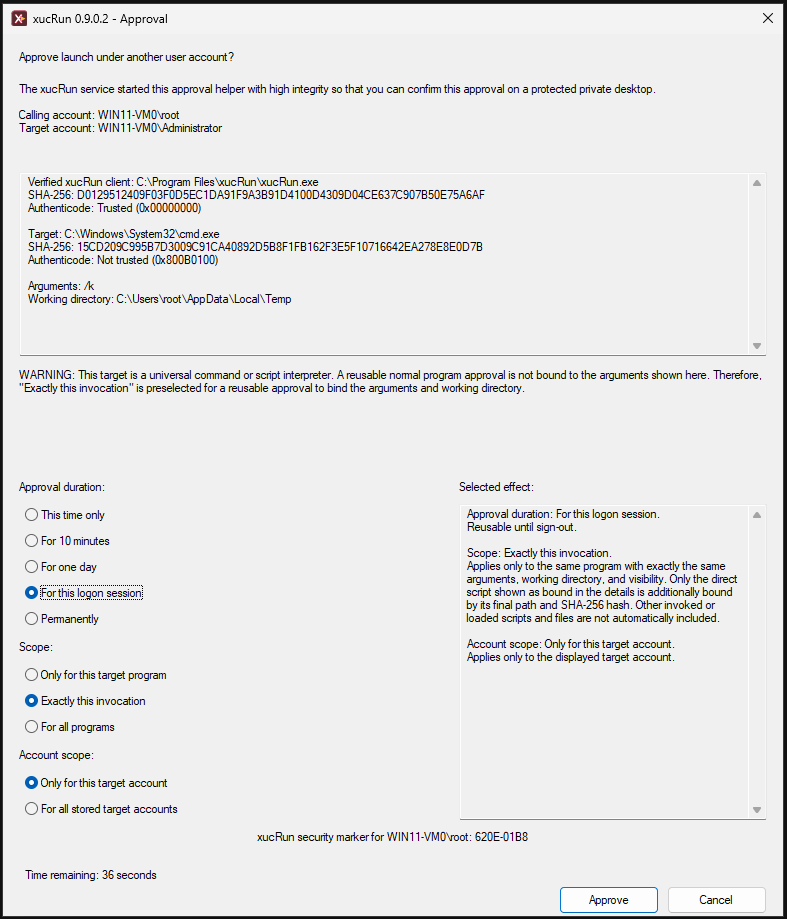
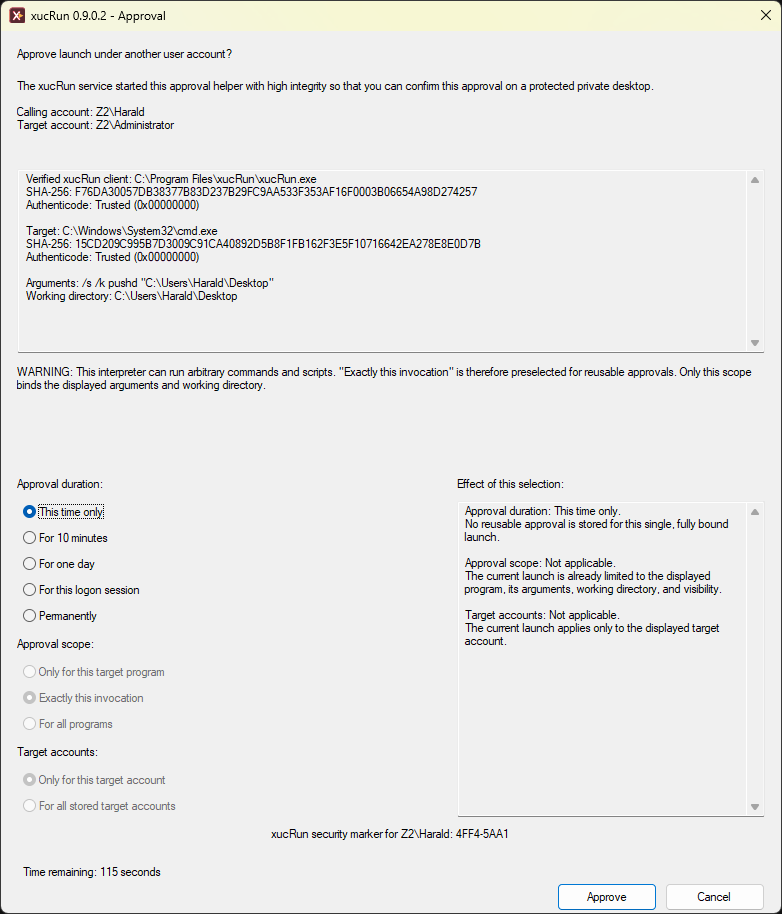
Harden reusable PowerShell approvals

Changed region(s): [[0.0, 0.0, 1.0, 1.0], [0.5831, 0.5208, 0.9514, 0.7352], [0.3376, 0.8884, 0.9514, 0.919]]

diff --git a/xucRunApproval/main.cpp b/xucRunApproval/main.cpp
@@ -741,11 +741,11 @@ namespace
 			if (context && !context->exactInvocationReusableAllowed)
 			{
 				explanation += Text(
-					L"\r\n\r\nDas direkte Skript konnte nicht sicher an Pfad und Inhalt gebunden "
-						L"werden. Eine wiederverwendbare Freigabe für genau diesen Aufruf ist "
+					L"\r\n\r\nDer ausgeführte Inhalt konnte nicht sicher an Pfad und Inhalt "
+						L"gebunden werden. Eine wiederverwendbare Freigabe für genau diesen Aufruf ist "
 						L"deshalb nicht möglich. Sie können den Start einmalig freigeben oder "
 						L"bewusst eine weiterreichende Interpreterfreigabe wählen.",
-					L"\r\n\r\nThe direct script could not be bound safely to its path and "
+					L"\r\n\r\nThe executed content could not be bound safely to its path and "
 						L"contents. A reusable approval for exactly this invocation is therefore "
 						L"not available. You can approve this launch once or deliberately choose "
 						L"a broader interpreter approval.");
@@ -962,17 +962,17 @@ namespace
 				const std::wstring warning = !context->exactInvocationReusableAllowed
 					? Text(
 						L"WARNUNG: Dieser Interpreter kann beliebige Befehle und Skripte "
-						L"ausführen. Das direkt angegebene Skript kann nicht sicher in „Genau "
-						L"dieser Aufruf“ einbezogen werden, weil ein für seinen Austausch "
-						L"relevanter Ordner vom aufrufenden Konto verändert werden kann oder "
-						L"Pfad beziehungsweise Inhalt nicht sicher geprüft werden konnten. Für eine "
+						L"ausführen. Der ausgeführte Inhalt kann nicht sicher in „Genau dieser "
+						L"Aufruf“ einbezogen werden, weil er nicht als direkt bindbares Skript "
+						L"erkannt wurde oder Pfad beziehungsweise Inhalt nicht sicher geprüft "
+						L"werden konnten. Für eine "
 						L"wiederverwendbare Freigabe stehen deshalb nur die weiterreichenden "
 						L"Freigabeumfänge zur Verfügung; sie müssen zusätzlich bestätigt werden.",
 						L"WARNING: This interpreter can run arbitrary commands and scripts. "
-						L"The directly specified script cannot be included safely in \"Exactly "
-						L"this invocation\" because a folder relevant to its replacement can be "
-						L"modified by the calling account or its path or contents could not be "
-						L"verified safely. Only broader approval scopes are therefore available "
+						L"The executed content cannot be included safely in \"Exactly this "
+						L"invocation\" because it was not recognized as a directly bindable script "
+						L"or because its path or contents could not be verified safely. Only "
+						L"broader approval scopes are therefore available "
 						L"for a reusable approval; they require an additional confirmation.")
 					: Text(
 						L"WARNUNG: Dieser Interpreter kann beliebige Befehle und Skripte "
@@ -1253,7 +1253,9 @@ namespace
 				challenge.directScriptSha256.end(),
 				[](std::uint8_t value) { return value != 0; });
 		const bool exactInvocationReusableAllowed =
-			challenge.directScriptPath.empty() || directScriptBound;
+			directScriptBound ||
+			(challenge.directScriptPath.empty() &&
+				interpreterWarningType != InterpreterWarningType::PowerShell);
 		ApprovalDialogContext context = {
 			&decision, &fixedDetails, &details, &challenge.authenticityMarker,
 			&displayedClientName, interpreterWarningType,

diff --git a/xucRunBroker/BrokerPipeServer.cpp b/xucRunBroker/BrokerPipeServer.cpp
@@ -219,6 +219,12 @@ namespace
 		return false;
 	}
 
+	bool IsPowerShellInterpreter(const std::wstring& executablePath)
+	{
+		const std::wstring executable = LowerFileName(executablePath);
+		return executable == L"powershell.exe" || executable == L"pwsh.exe";
+	}
+
 	bool RunDirectScriptArgumentSelfTest()
 	{
 		std::wstring script;
@@ -1528,15 +1534,23 @@ namespace
 		const PendingApprovalChallenge& pending,
 		const xucrun::broker::ApprovalConfirmationRequest& request)
 	{
+		if (request.persistence == xucrun::broker::ApprovalPersistence::Once ||
+			request.programScope !=
+				xucrun::broker::ApprovalProgramScope::ExactInvocation)
+		{
+			return true;
+		}
+		if (pending.directScriptPath.empty() &&
+			IsPowerShellInterpreter(pending.executablePath))
+		{
+			return false;
+		}
 		const bool reusableScriptBinding =
 			pending.scriptPath == pending.directScriptPath &&
 			!pending.scriptPath.empty() &&
 			std::any_of(pending.scriptSha256.begin(), pending.scriptSha256.end(),
 				[](std::uint8_t value) { return value != 0; });
-		return request.persistence == xucrun::broker::ApprovalPersistence::Once ||
-			pending.directScriptPath.empty() || reusableScriptBinding ||
-			request.programScope !=
-				xucrun::broker::ApprovalProgramScope::ExactInvocation;
+		return pending.directScriptPath.empty() || reusableScriptBinding;
 	}
 
 	// Persists a confirmed approval with owner, account, program, and lifetime bindings.
@@ -2686,8 +2700,23 @@ namespace
 		pending.scriptPath = L"C:\\Scripts\\different.ps1";
 		if (CanPersistApproval(pending, request))
 			return false;
-		pending.scriptPath.clear();
-		pending.scriptSha256 = {};
+		pending = {};
+		pending.executablePath = L"C:\\Tools\\application.exe";
+		if (!CanPersistApproval(pending, request))
+			return false;
+		pending.executablePath =
+			L"C:\\Windows\\System32\\WindowsPowerShell\\v1.0\\powershell.exe";
+		if (CanPersistApproval(pending, request))
+			return false;
+		pending.executablePath = L"C:\\Program Files\\PowerShell\\7\\pwsh.exe";
+		if (CanPersistApproval(pending, request))
+			return false;
+		request.programScope =
+			xucrun::broker::ApprovalProgramScope::TargetProgram;
+		if (!CanPersistApproval(pending, request))
+			return false;
+		request.programScope =
+			xucrun::broker::ApprovalProgramScope::ExactInvocation;
 		request.persistence = xucrun::broker::ApprovalPersistence::Once;
 		error = NO_ERROR;
 		return StoreApproval(

diff --git a/README.de.md b/README.de.md
@@ -785,6 +785,8 @@ Skripte ohne erneuten xucRun-Freigabedialog gestartet werden können. „Zurück
 Vorgabe. Eine bewusst gespeicherte weitreichende Freigabe behält diese Wirkung, wenn sie auf einen
 späteren Aufruf passt.
 
+![Bestätigung vor dem Speichern einer weitreichenden Interpreterfreigabe](docs/de/images/broad-interpreter-approval-confirmation.png)
+
 Erkennt xucRun dabei ein direkt angegebenes PowerShell-, Batch-, TCC- oder
 Windows-Script-Host-Skript, bindet es dessen vollständig aufgelösten Pfad und SHA-256-Hash
 zusätzlich, sofern das aufrufende Konto keinen für den Austausch relevanten Ordner verändern kann.
@@ -792,15 +794,20 @@ Die Skriptdatei selbst darf beschreibbar sein: Ändert sich ihr Inhalt später, 
 mehr und xucRun verlangt eine neue Freigabe. Unmittelbar vor jedem Start prüft der Broker finalen
 Pfad und Hash erneut und hält die geprüfte Datei bis zum Programmstart gegen Änderung und
 Austausch gesperrt. Eine aktive Skriptbindung ist daran erkennbar, dass oben im Freigabedialog
-das direkte Skript mit Pfad und SHA-256-Hash angezeigt wird. Wird dort kein direktes Skript mit
-Pfad und SHA-256-Hash angezeigt, bindet „Genau dieser Aufruf“ zwar
-Programmdatei, Argumente, Arbeitsverzeichnis und
-dieselbe Einstellung für einen sichtbaren oder verborgenen Start, aber kein weiteres Programm und
-keinen Skriptinhalt. Programme, Skripte und andere Dateien, die im Befehl genannt oder von ihm
+das direkte Skript mit Pfad und SHA-256-Hash angezeigt wird. Für PowerShell ist eine
+wiederverwendbare Freigabe „Genau dieser Aufruf“ nur mit einer solchen sicher gebundenen direkten
+Skriptdatei verfügbar. Insbesondere `-Command`, interaktive Aufrufe und andere nicht als direkte
+`-File`-Ausführung erkannte Formen können nur einmalig oder bewusst mit einem weiterreichenden
+Freigabeumfang bestätigt werden.
+
+Wird bei anderen Interpretern kein direktes Skript mit Pfad und SHA-256-Hash angezeigt, bindet
+„Genau dieser Aufruf“ zwar Programmdatei, Argumente, Arbeitsverzeichnis und dieselbe Einstellung
+für einen sichtbaren oder verborgenen Start, aber kein weiteres Programm und keinen Skriptinhalt.
+Programme, Skripte und andere Dateien, die im Befehl genannt oder von ihm
 direkt oder indirekt aufgerufen werden, können ersetzt oder inhaltlich verändert werden, ohne
 dass die Freigabe dadurch ungültig wird. Das gilt beispielsweise für freien CMD-Befehlstext mit
-`SET` und `CALL`, für PowerShell `-Command` und für Programme, die ein gebundenes Zielprogramm
-oder Skript anschließend startet.
+`SET` und `CALL` sowie für Programme, die ein gebundenes Zielprogramm oder Skript anschließend
+startet.
 
 Kann dagegen ein austauschrelevanter Ordner verändert oder Pfad beziehungsweise Inhalt nicht
 sicher geprüft werden, ist eine wiederverwendbare Freigabe für „Genau dieser Aufruf“ nicht
@@ -945,6 +952,8 @@ lokale Befehlsübersicht.
 Meldet xucRun, dass ein erhöhter Start wegen fehlender UAC-Bestätigung blockiert wurde, ist für
 das ausgewählte andere Administratorkonto der Windows-Administratorbestätigungsmodus nicht
 wirksam. Das kann insbesondere das integrierte Konto `Administrator` betreffen.
+
+![Blockierter kontenübergreifender erhöhter Start wegen fehlender UAC-Bestätigung](docs/de/images/cross-account-elevation-blocked.png)
 
 | Laufzeitinformationen | Sicherheitsaudit |
 |:---:|:---:|

diff --git a/README.md b/README.md
@@ -733,6 +733,8 @@ the stored approval and that different commands or new or modified scripts can l
 another xucRun approval dialog. Returning to the selection is the default. An intentionally stored
 broad approval retains this broad effect when it matches a later invocation.
 
+![Confirmation before storing a broad interpreter approval](docs/en/images/broad-interpreter-approval-confirmation.png)
+
 If xucRun recognizes a directly specified PowerShell, batch, TCC, or Windows Script Host script, it
 additionally binds the script's fully resolved path and SHA-256 hash, provided that the calling
 account cannot modify a folder relevant to replacing the script. The script file itself may be
@@ -740,13 +742,18 @@ writable: if its contents change later, its hash no longer matches and xucRun re
 approval. Immediately before every launch, the broker rechecks the final path and hash and keeps
 the verified file locked against modification and replacement until the program starts. An active
 script binding is visible when the direct script's path and SHA-256 hash are shown at the top of
-the approval dialog. If no direct script with its path and SHA-256 hash is shown there, "Exactly
-this invocation" still binds the program file, arguments, working directory, and the setting for
-a visible or hidden launch, but no additional program or script contents. Programs, scripts, and
-other files named in the command or
+the approval dialog. For PowerShell, a reusable "Exactly this invocation" approval is available
+only with such a safely bound direct script. In particular, `-Command`, interactive invocations,
+and other forms not recognized as direct `-File` execution can be approved only once or
+deliberately with a broader approval scope.
+
+For other interpreters, if no direct script with its path and SHA-256 hash is shown,
+"Exactly this invocation" still binds the program file, arguments, working directory, and the
+setting for a visible or hidden launch, but no additional program or script contents. Programs,
+scripts, and other files named in the command or
 invoked by it directly or indirectly can be replaced or modified without invalidating the
-approval. Examples include free CMD command text using `SET` and `CALL`, PowerShell `-Command`,
-and programs subsequently started by a bound target program or script.
+approval. Examples include free CMD command text using `SET` and `CALL` and programs subsequently
+started by a bound target program or script.
 
 If a folder relevant to replacement can be modified, or if the path or contents cannot be verified
 safely, a reusable approval for "Exactly this invocation" is not available. The dialog explains
@@ -887,6 +894,8 @@ command overview.
 If xucRun reports that an elevated launch was blocked because UAC confirmation was unavailable,
 Windows Admin Approval Mode is not effective for the selected different administrator account.
 This can particularly affect the built-in `Administrator` account.
+
+![Elevated cross-account launch blocked because UAC confirmation is unavailable](docs/en/images/cross-account-elevation-blocked.png)
 
 | Runtime information | Security audit |
 |:---:|:---:|
